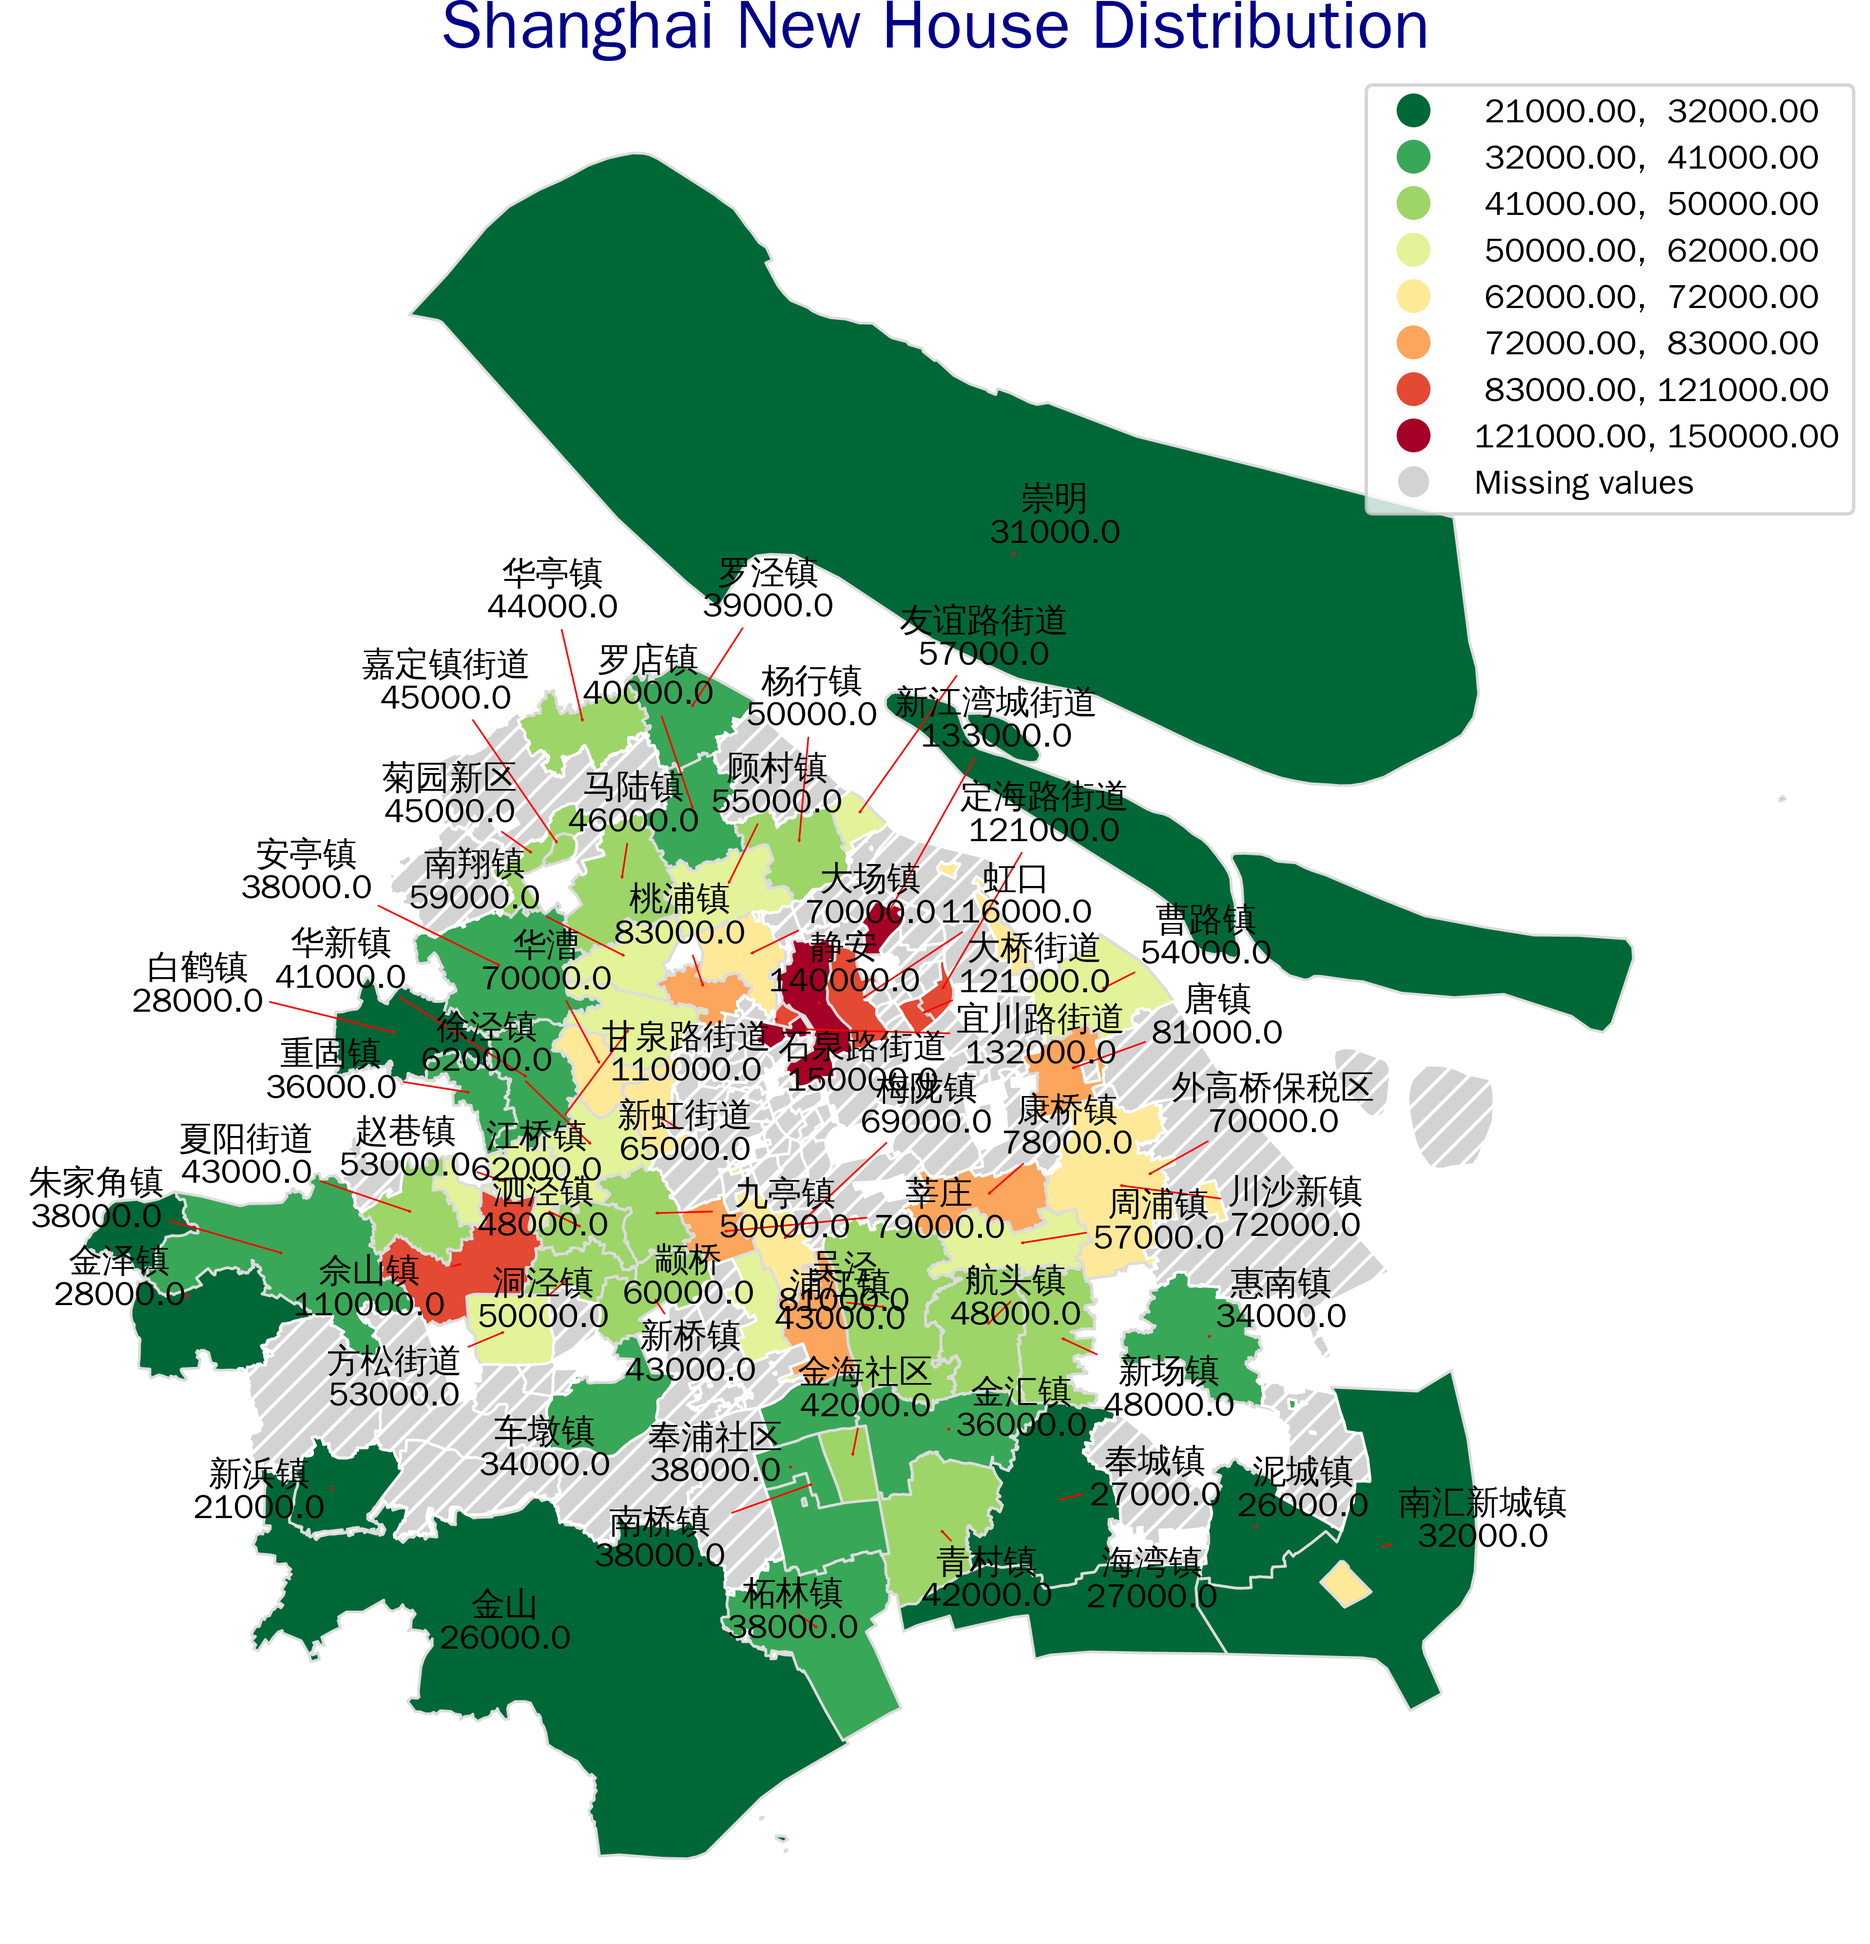
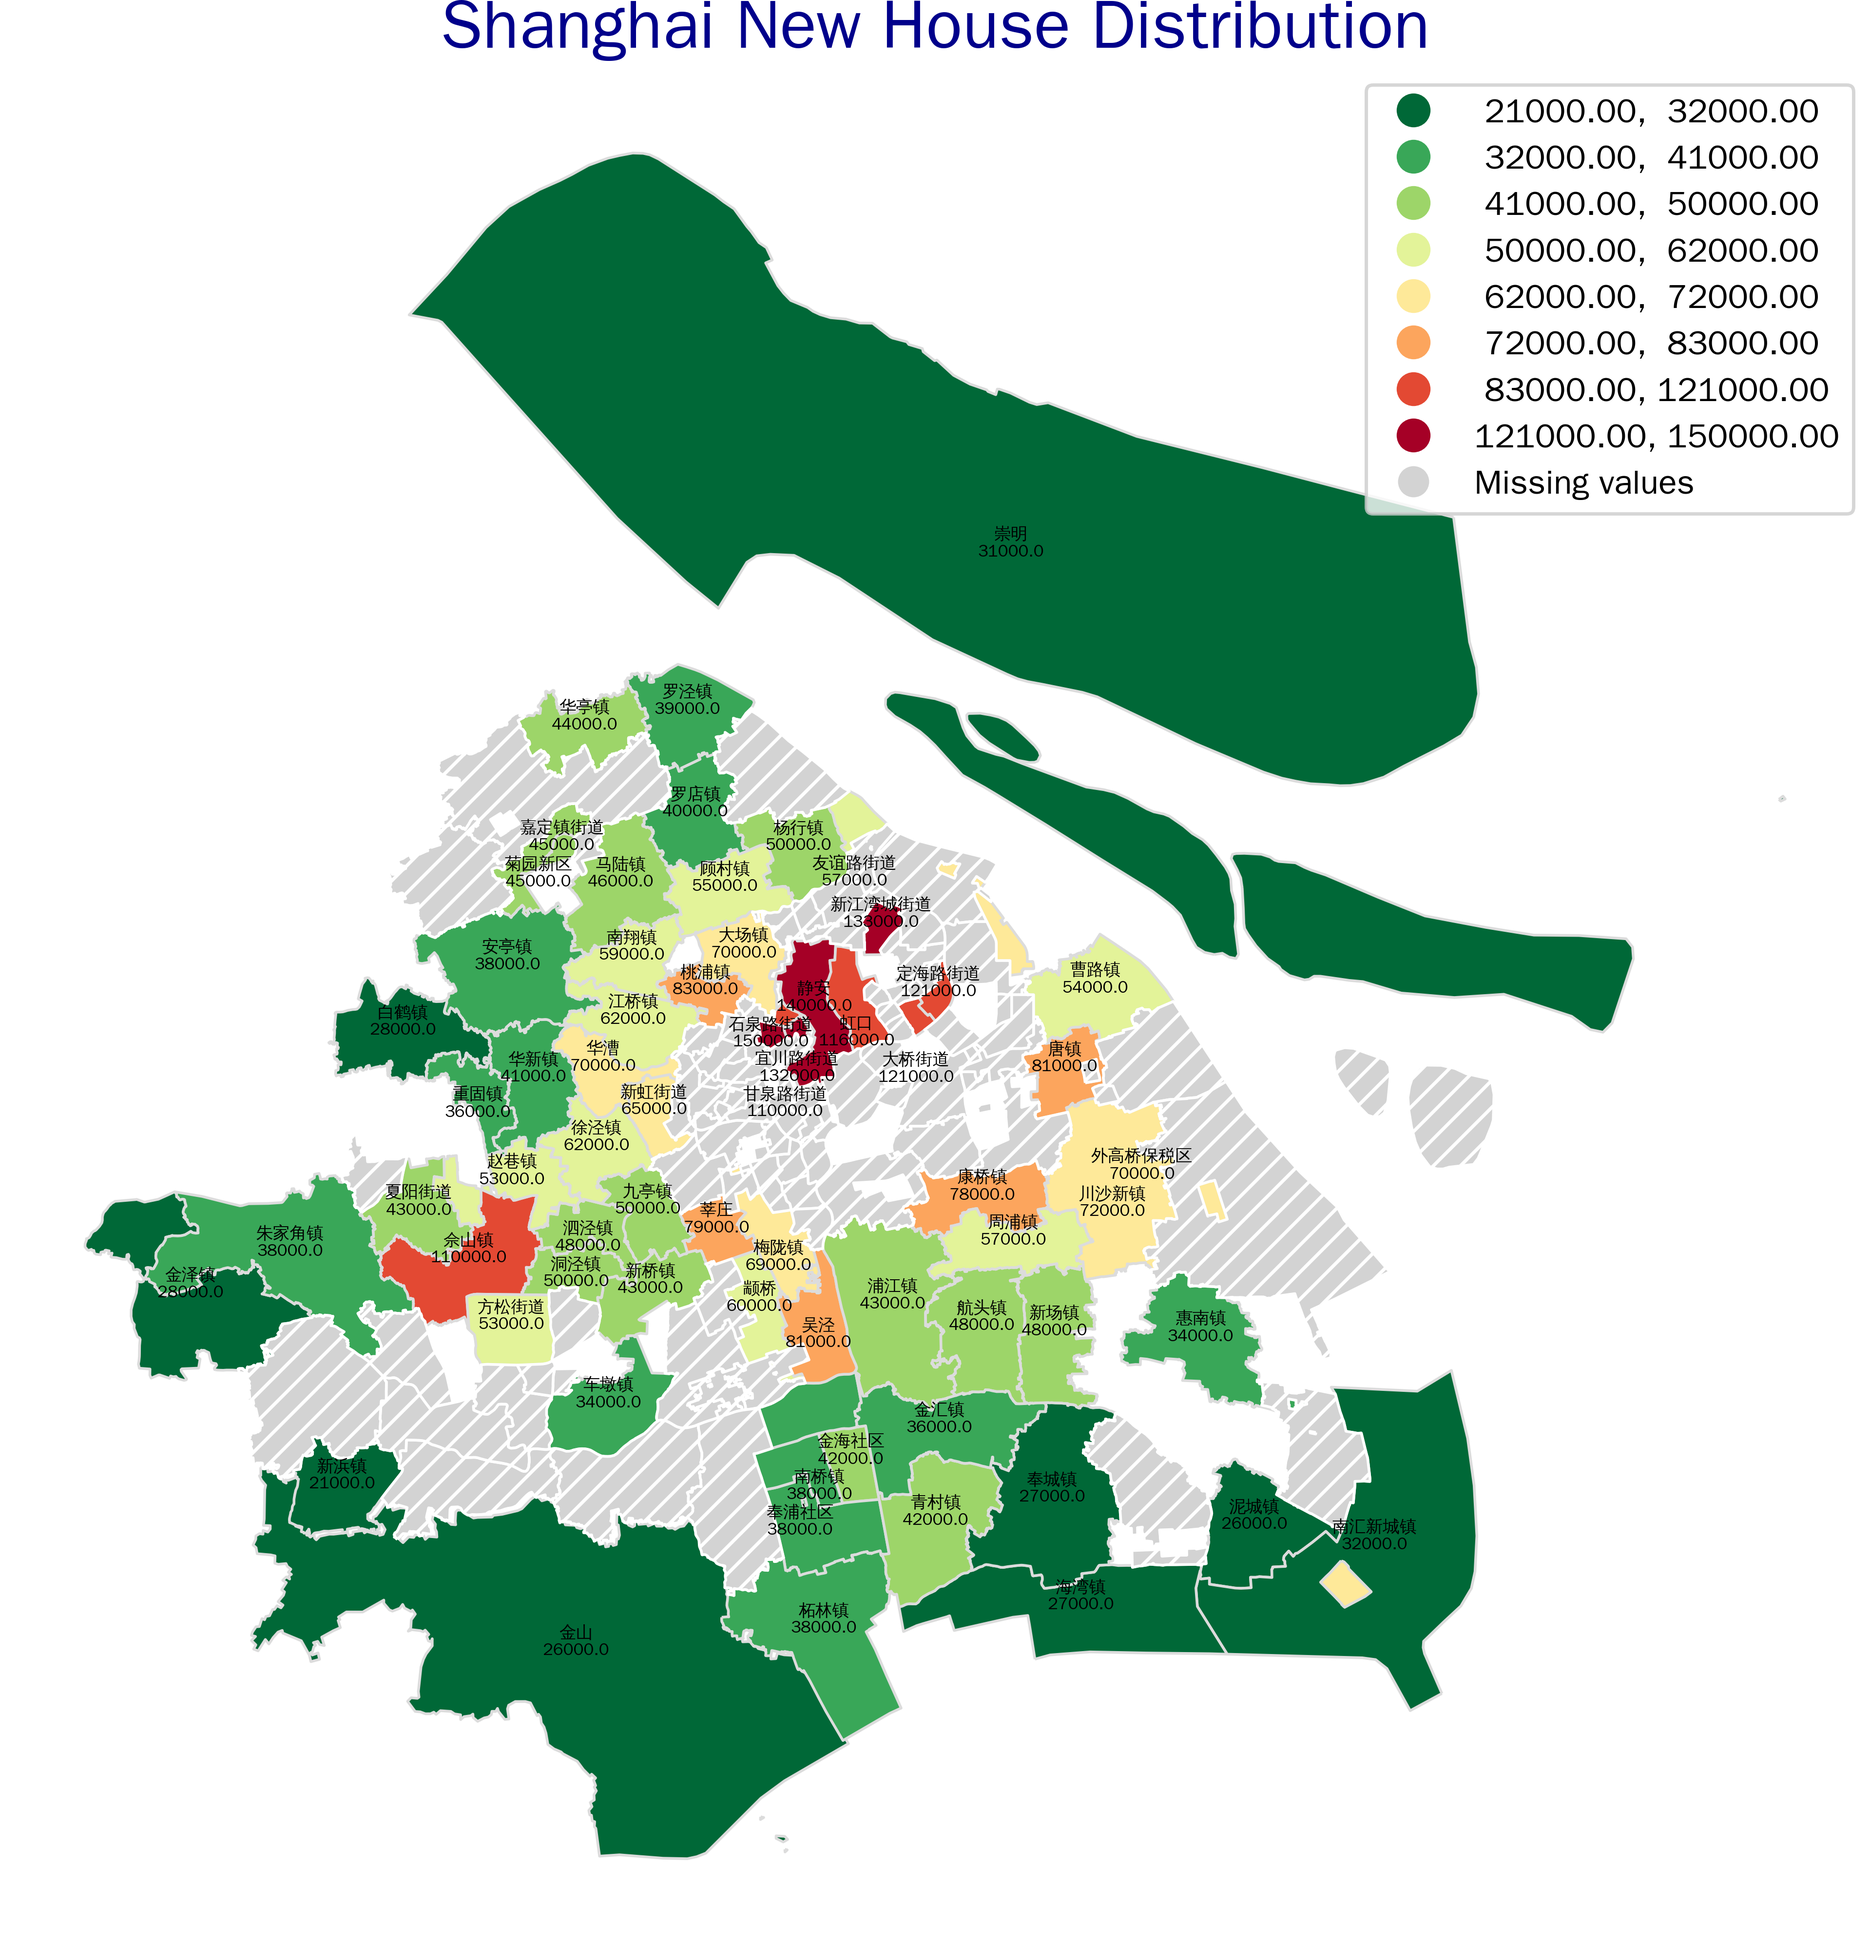
update

diff --git a/pub_finance/finance/HouseInfoCrawler.py b/pub_finance/finance/HouseInfoCrawler.py
@@ -9,6 +9,7 @@ from adjustText import adjust_text
 from utility.MyEmail import MyEmail
 import seaborn as sns
 from utility.ToolKit import ToolKit
+from matplotlib.transforms import Bbox
 
 """ 
 上海区域地图数据：https://geo.datav.aliyun.com/areas_v3/bound/310000_full.json
@@ -131,9 +132,24 @@ for idx, row in result_bydistrict.iterrows():
             bbox=dict(facecolor=(1, 1, 1, 0), edgecolor=(1, 1, 1, 0), boxstyle='round, pad=0.5'),  # 设置注释框样式
         )
         texts.append(text)
+# 检查注释是否重叠并调整位置
+def check_and_adjust_annotations(texts, vertical_spacing=0.002):
+    renderer = ax.get_figure().canvas.get_renderer()
+    for i, text in enumerate(texts):
+        rect1 = text.get_window_extent(renderer=renderer)
+        for j in range(i + 1, len(texts)):
+            text2 = texts[j]
+            rect2 = text2.get_window_extent(renderer=renderer)
+            while rect1.overlaps(rect2):
+                x, y = text2.get_position()
+                y -= vertical_spacing
+                text2.set_position((x, y))
+                rect2 = text2.get_window_extent(renderer=renderer)
+
+check_and_adjust_annotations(texts)        
 
 # 调整注释位置以避免重叠
-adjust_text(texts, arrowprops=dict(arrowstyle="->", color='r', lw=0.5));
+# adjust_text(texts, arrowprops=dict(arrowstyle="->", color='r', lw=0.5));
 
 # 设置图像大小
 # plt.figure(figsize=(12, 9))
@@ -172,7 +188,6 @@ ax.axis('off')
 ax.set_title('Shanghai New House Distribution', 
              fontdict={'fontsize': 20, 'fontweight': 'bold', 'color': 'darkblue'})
 
-
 texts = []
 for idx, row in result_bystreet.iterrows():
     centroid = row.geometry.centroid.coords[0]
@@ -182,15 +197,31 @@ for idx, row in result_bystreet.iterrows():
             xy=centroid,
             # xytext=offset,
             ha='center',
-            fontsize=10,  # 设置字体大小
+            fontsize=5,  # 设置字体大小
             color='black',  # 设置字体颜色为黑色
             weight='bold',  # 设置字体粗细
             bbox=dict(facecolor=(1, 1, 1, 0), edgecolor=(1, 1, 1, 0), boxstyle='round, pad=0.5'),  # 设置注释框样式
         )
         texts.append(text)
+# 检查注释是否重叠并调整位置
+def check_and_adjust_annotations(texts, vertical_spacing=0.002):
+    renderer = ax.get_figure().canvas.get_renderer()
+    for i, text in enumerate(texts):
+        rect1 = text.get_window_extent(renderer=renderer)
+        for j in range(i + 1, len(texts)):
+            text2 = texts[j]
+            rect2 = text2.get_window_extent(renderer=renderer)
+            while rect1.overlaps(rect2):
+                x, y = text2.get_position()
+                y -= vertical_spacing
+                text2.set_position((x, y))
+                rect2 = text2.get_window_extent(renderer=renderer)
+
+check_and_adjust_annotations(texts)
+
 
 # 调整注释位置以避免重叠
-adjust_text(texts, arrowprops=dict(arrowstyle="->", color='r', lw=0.5));
+# adjust_text(texts, arrowprops=dict(arrowstyle="->", color='r', lw=0.5));
 
 
 plt.savefig('./map_bystreet.png', dpi=500, bbox_inches='tight', pad_inches=0)
@@ -203,7 +234,7 @@ df_new_house.reset_index(drop=True, inplace=True)
 html = (
     "<h2>New House List</h2>"  # 添加标题
     "<table>"
-    + df_new_house.style.hide(axis=1, subset=["longitude", "latitude", "index"])
+    + df_new_house.style.hide(axis=1, subset=["longitude", "latitude", "index", "tags"])
     .background_gradient(subset=["avg_price"], cmap=cm)
     .set_properties(
         **{
@@ -222,7 +253,7 @@ html = (
                     ("border", "1px solid #ccc"),
                     ("text-align", "left"),
                     ("padding", "8px"),  # 增加填充以便更易点击和阅读
-                    ("font-size", "35px"),  # 在PC端使用较大字体
+                    ("font-size", "18px"),  # 在PC端使用较大字体
                 ],
             ),
             # 表格数据单元格样式
@@ -234,50 +265,62 @@ html = (
                     ("padding", "8px"),
                     (
                         "font-size",
-                        "35px",
+                        "18px",
                     ),  # 同样适用较大字体以提高移动端可读性
                 ],
             ),
         ]
     )
-    .set_table_styles({
-        "title": [
-            {
-                "selector": "td",
-                "props": [
-                    # ("white-space", "nowrap"),
-                ],
-            },
-        ]
-    })
+    .set_table_styles(
+        {
+            "title": [
+                {
+                    "selector": "th",
+                    "props": [
+                        ("min-width", "150px"),
+                        ("max-width", "300px"),
+                    ],
+                },
+                {
+                    "selector": "td",
+                    "props": [
+                        ("min-width", "150px"),
+                        ("max-width", "300px"),
+                    ],
+                },
+            ]
+        },
+        overwrite=False,
+    )
     .set_sticky(axis="columns")
     .to_html(doctype_html=True, escape=False)
-    + "</table>"
+    + "<table>"
 )
-# css = """
-#     <style>
-#         html, body {
-#             margin: 0;
-#             padding: 0;
-#             width: 100%;
-#             height: 100%;
-#             overflow-x: hidden;  # 禁止水平滚动
-#         }
-#         body {
-#             display: flex;
-#             justify-content: center;
-#             align-items: center;
-#             background-color: white;
-#             color: black;
-#         }
-#         table {
-#             width: 100%;  # 确保表格宽度为100%
-#             border-collapse: collapse;
-#         }
-#     </style>
-# """
+css = """
+    <style>
+        :root {
+            color-scheme: light;
+            supported-color-schemes: light;
+            background-color: white;
+            color: black;
+            display: table ;
+        }                
+        /* Your light mode (default) styles: */
+        body {
+            background-color: white;
+            color: black;
+            display: table ;
+            width: 100%;                          
+        }
+        table {
+            background-color: white;
+            color: black;
+            width: 100%;
+        }
+    </style>
+"""
 
-# html = css + html
+html = css + html
 
 html_img = """
         <html>
